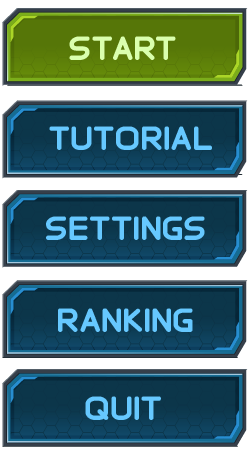
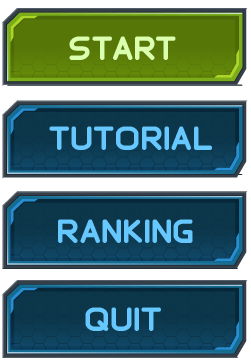
Removed setting option in menu

diff --git a/game/collectables/Collectables.ts b/game/collectables/Collectables.ts
@@ -7,14 +7,24 @@ module Collectables {
         spawnAt ( x:number, y:number ): void;
         collect ( character: Superhero.Character ): void;
         overlapWithChar ( character: Superhero.Character): boolean;
+        loadAnimation (): void;
+        playAnimation (): void;
     }
 
 
     export class BaseCollectable extends Phaser.Sprite implements Collectable {
 
         constructor(game: Phaser.Game, key:string){
-            super(game,100,100,'pups', key);
+            super(game,100,100,'pupanim', key);
             this.initPhysics();
+            this.loadAnimation();
+        }
+
+
+        loadAnimation(): void {}
+
+        playAnimation(): void {
+            this.animations.play('main');
         }
 
         initPhysics(){
@@ -64,6 +74,10 @@ module Collectables {
                 this.game.state.states.Level1.ui.infoText.showCustomText('Fire Power!');
             }
         }
+
+        loadAnimation(): void {
+            this.animations.add('main', ['bullet1', 'bullet2'], 3, true, false);
+        }
     }
 
 
@@ -81,6 +95,10 @@ module Collectables {
             }
         }
 
+        loadAnimation(): void {
+            this.animations.add('main', ['shield1', 'shield2', 'shield3', 'shield4', 'shield5'], 4, true, false);
+        }
+
     }
 
     export class NukeBomb extends BaseCollectable{
@@ -92,6 +110,10 @@ module Collectables {
         collect( character: Superhero.Character ) {
             character.nukes += 1;
             this.game.state.states.Level1.ui.infoText.showCustomText('Nuke Collected!');
+        }
+
+        loadAnimation(): void {
+            this.animations.add('main', ['nuke1', 'nuke2', 'nuke3', 'nuke4', 'nuke5', 'nuke6'], 5, true, false);
         }
 
     }
@@ -107,6 +129,10 @@ module Collectables {
             this.game.state.states.Level1.ui.infoText.showCustomText('Time Warp Collected');
         }
 
+        loadAnimation(): void {
+            this.animations.add('main', ['clock1', 'clock2', 'clock3', 'clock4', 'clock5', 'clock6'], 5, true, false);
+        }
+
     }
 
     export class Diamond extends BaseCollectable{
@@ -118,6 +144,8 @@ module Collectables {
         collect( character: Superhero.Character ) {
             character.coins += 10;
         }
+
+        loadAnimation(): void {}
 
     }
 
@@ -132,6 +160,8 @@ module Collectables {
             this.game.state.states.Level1.ui.infoText.showCustomText('Inmune!');
         }
 
+        loadAnimation(): void {}
+
     }
 
     export class Bomb extends BaseCollectable{
@@ -145,6 +175,11 @@ module Collectables {
             this.game.state.states.Level1.ui.infoText.showCustomText('Rocket Collected!');
         }
 
+        loadAnimation(): void {
+            this.animations.add('main', ['rocket1', 'rocket2'], 6, true, false);
+        }
+
+
     }
 
     export class Lives extends BaseCollectable{
@@ -157,6 +192,11 @@ module Collectables {
             character.lives += 1;
             this.game.state.states.Level1.ui.infoText.showCustomText('1 UP');
         }
+
+        loadAnimation(): void {
+            this.animations.add('main', ['head1', 'head2'], 3, true, false);
+        }
+
 
     }
 

diff --git a/game/states/Level1.ts b/game/states/Level1.ts
@@ -99,14 +99,14 @@ module Superhero {
 
         initCollectables(): void {
             this.collectableManager = new Collectables.CollectableManager(this.game);
-            this.collectableManager.addCollectable(Collectables.CollectableType.IMPROVE_FIRE);
+            //this.collectableManager.addCollectable(Collectables.CollectableType.IMPROVE_FIRE);
             this.collectableManager.addCollectable(Collectables.CollectableType.IMPROVE_SHIELD);
-            this.collectableManager.addCollectable(Collectables.CollectableType.NUKE_BOMB);
-            this.collectableManager.addCollectable(Collectables.CollectableType.TIME_WARP);
+            //this.collectableManager.addCollectable(Collectables.CollectableType.NUKE_BOMB);
+            //this.collectableManager.addCollectable(Collectables.CollectableType.TIME_WARP);
             //this.collectableManager.addCollectable(Collectables.CollectableType.DIAMOND);
-            this.collectableManager.addCollectable(Collectables.CollectableType.BOMB);
+            //this.collectableManager.addCollectable(Collectables.CollectableType.BOMB);
             //this.collectableManager.addCollectable(Collectables.CollectableType.IMMUNITY);
-            this.collectableManager.addCollectable(Collectables.CollectableType.LIVES);
+            //this.collectableManager.addCollectable(Collectables.CollectableType.LIVES);
 
 
         }
@@ -193,8 +193,6 @@ module Superhero {
             if (Math.floor(this.hero.comboLevel) > Math.floor(prevCombo)) {
                 this.ui.infoText.showComboText(this.hero.comboLevel);
             }
-
-
 
 
 

diff --git a/game/character/Character.ts b/game/character/Character.ts
@@ -235,12 +235,6 @@ module Superhero {
          */
         fire (): void {
             //Thou shalt only shoot if there is no shooting in progress
-            //if(this.sprite.alive && this.canShoot()) {
-            //    if (this.sprite.animations.currentAnim.name != 'shoot' || this.sprite.animations.currentAnim.isFinished) {
-
-                    ////Check for shootRate
-                    //var elapsedTime = this.game.time.elapsedSince(this.bulletTimer);
-                    //if (elapsedTime < this.shootDelay) return;
                     if (!this.canShoot()) return;
 
                     // TODO: implement fire play anim for every child (maybe a propertyor childs.count and hasFireAnim anim)
@@ -296,7 +290,6 @@ module Superhero {
                 function(){
                     this.sprite.body.drag.x *= 3*this.game.time.slowMotion;
                     this.sprite.body.drag.y *= 3*this.game.time.slowMotion;
-                    console.log(this.sprite.body.drag);
                 },this);
 
             setTimeout(function(){
@@ -450,7 +443,9 @@ module Superhero {
         }
 
         unShield(){
-            this.sprite.removeChildAt(this.shield);
+            if (this.sprite.key == 'hero1') {
+                this.sprite.removeChildAt(this.shield);
+            }
         }
 
         /**

diff --git a/game/states/Menu.ts b/game/states/Menu.ts
@@ -64,7 +64,7 @@ module Superhero {
                     y = event.y - y1;
 
                 // Calculate the choice
-                var choice = Math.floor((y/5)/18) + 1;
+                var choice = Math.floor((y/4)/23) + 1;
                 switch (choice){
                     case 1:
                         this.game.state.start('Level1', true, false);
@@ -75,14 +75,10 @@ module Superhero {
                         break;
 
                     case 3:
-                        this.game.state.start('Settings', false, false);
-                        break;
-
-                    case 4:
                         this.game.state.start('Ranking', false, false);
                         break;
 
-                    case 5:
+                    case 4:
                         break;
 
                 }

diff --git a/game/states/Preloader.ts b/game/states/Preloader.ts
@@ -34,6 +34,7 @@ module Superhero {
             this.game.load.atlasJSONHash('bullets', '/assets/bullets.png', '/assets/bullets.json');
             this.game.load.atlasJSONHash('steel', '/assets/steel.png', '/assets/steel.json');
             this.game.load.atlasJSONHash('shields', '/assets/shields.png', '/assets/shields.json');
+            this.game.load.atlasJSONHash('pupanim', '/assets/pupanim.png', '/assets/pupanim.json');
 
             //Single Images
             this.game.load.image('fuelbar', '/assets/fuel.png');

diff --git a/game/plugins/TouchInput.ts b/game/plugins/TouchInput.ts
@@ -161,8 +161,6 @@ module Gamepads {
             this.swipe.left = angle == 180;
             this.swipe.right = angle == 0;
 
-            console.log(this.swipe);
-
             if (this.swipe.up) this.swipeUpCallback();
             if (this.swipe.down) this.swipeDownCallback();
             if (this.swipe.left) this.swipeLeftCallback();

diff --git a/game/collectables/CollectableManager.ts b/game/collectables/CollectableManager.ts
@@ -113,6 +113,7 @@ module Collectables {
             if (coll.alive) return;
 
             coll.spawnAt(x, y);
+            coll.playAnimation();
         }
 
     }
